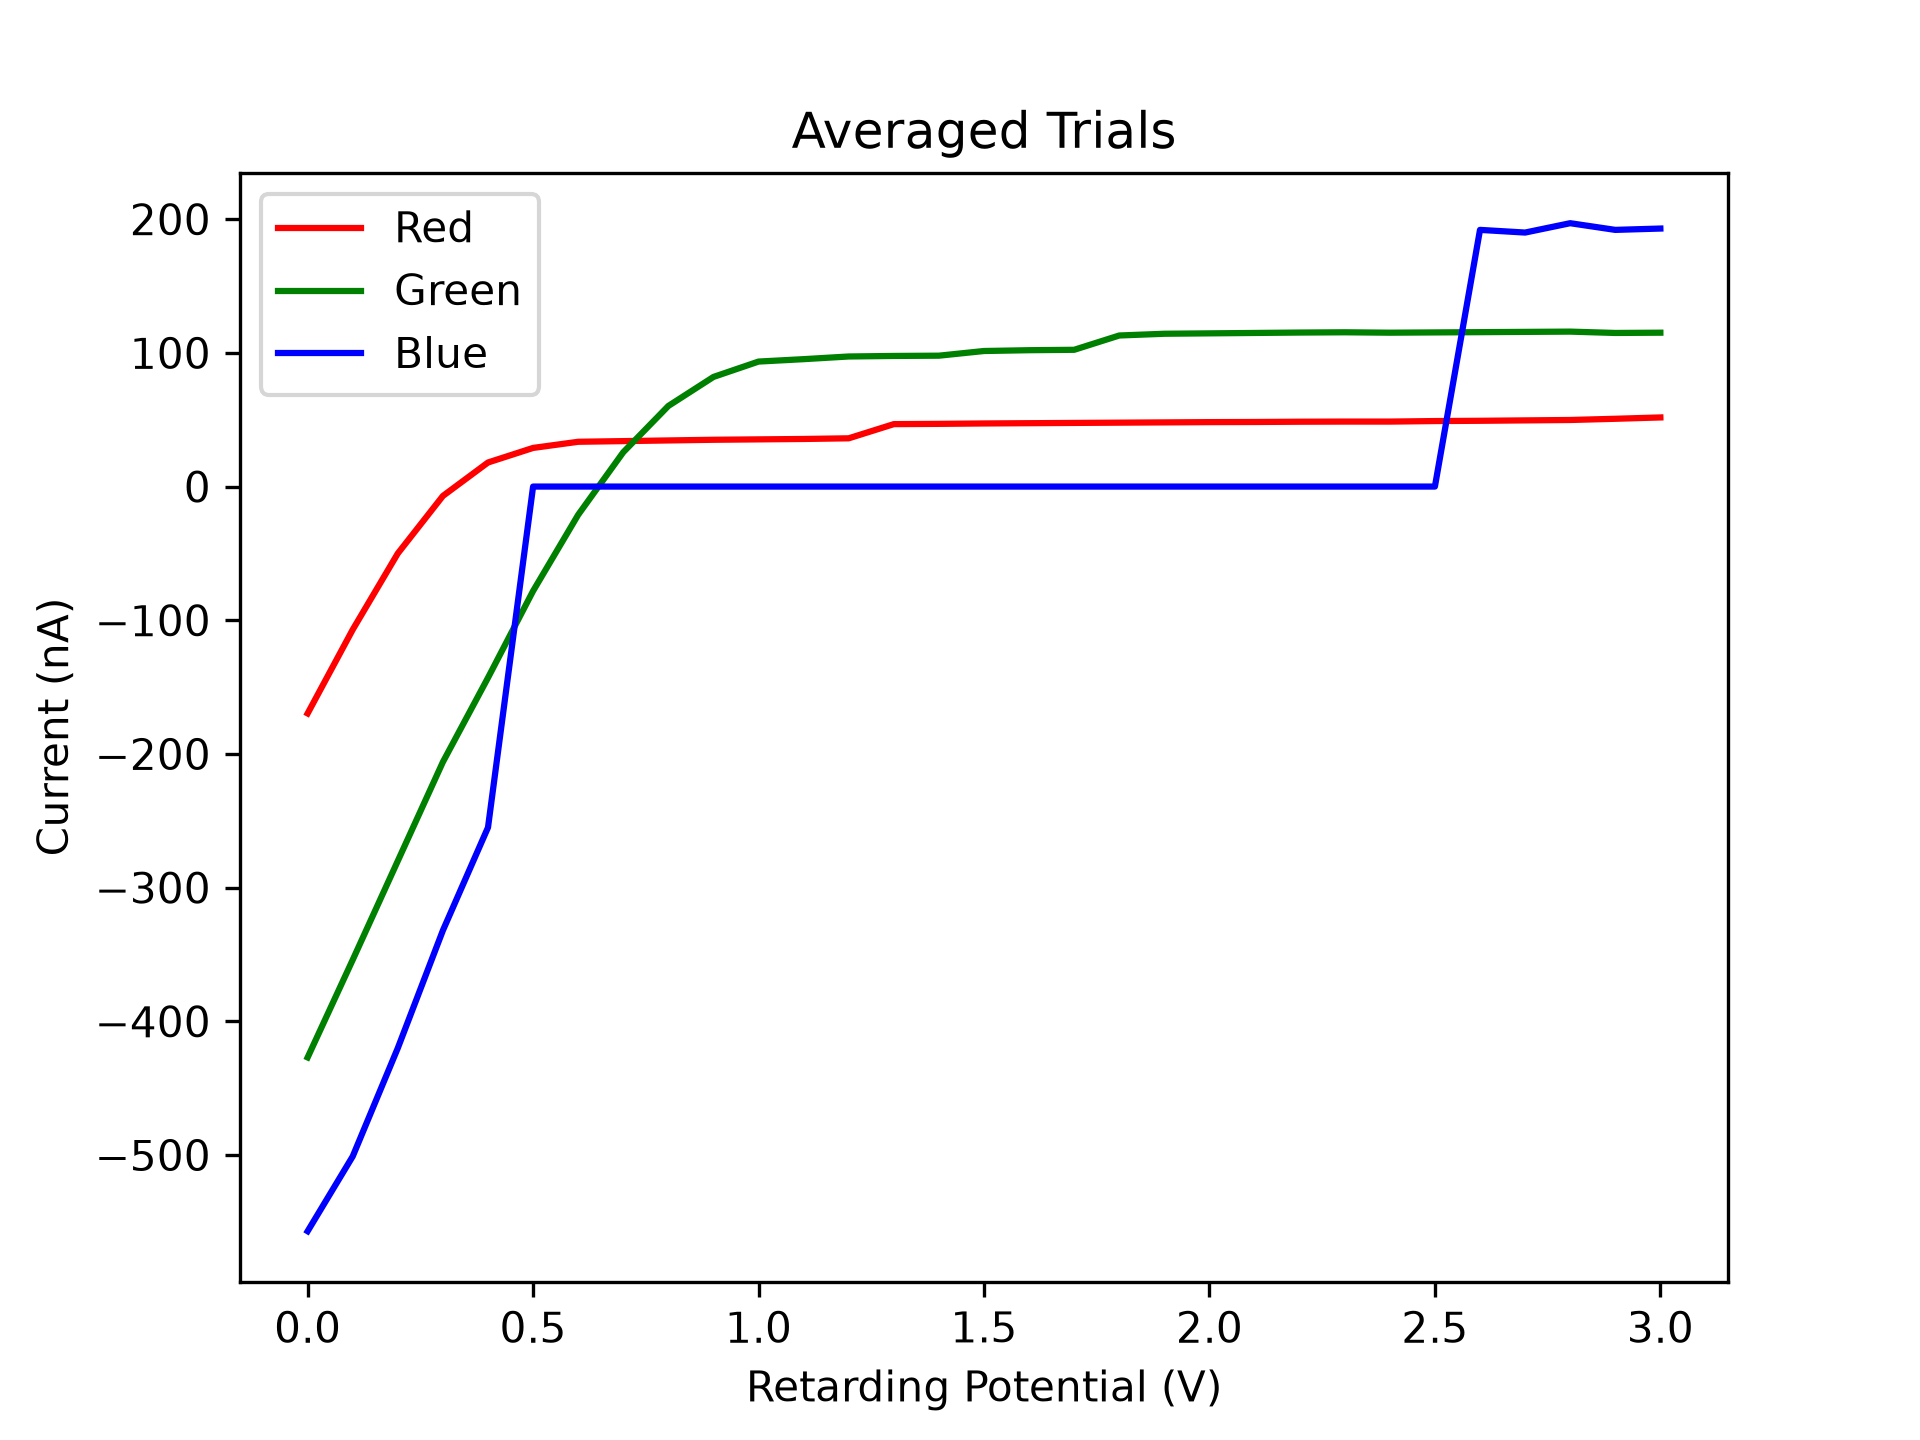
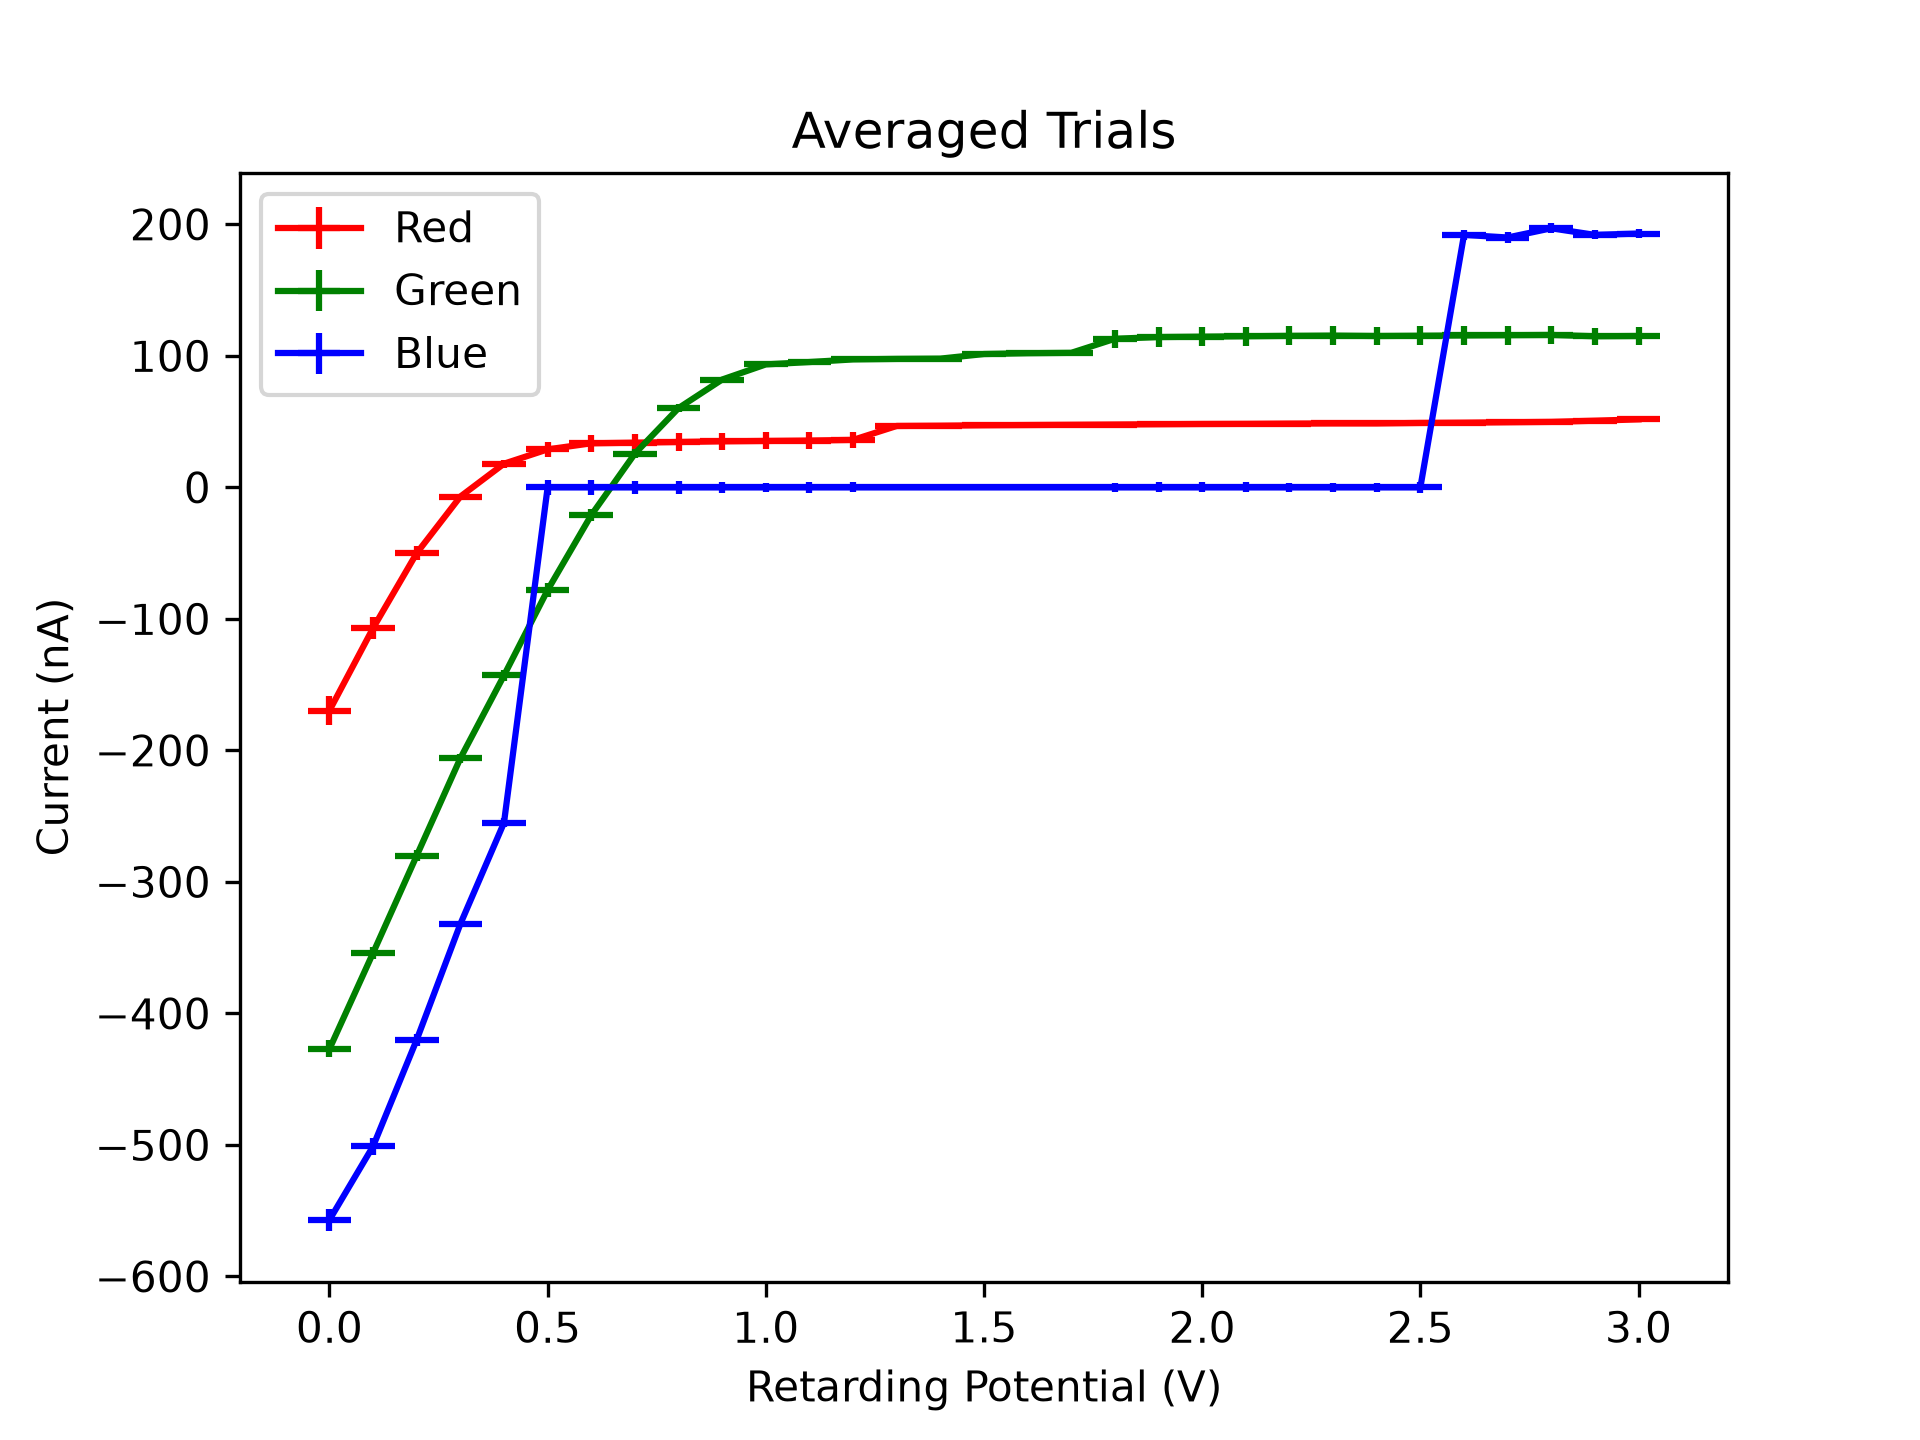
added error bars

diff --git a/rawdata.py b/rawdata.py
@@ -45,11 +45,11 @@ plt.savefig("rawdata.png")
 plt.close()
 
 plt.figure(dpi=300)
-plt.plot(ret,red2,label="Red",
+plt.errorbar(ret,red2,xerr=dd,yerr=dr,label="Red",
          color='red')
-plt.plot(ret,green2,label="Green",
+plt.errorbar(ret,green2,xerr=dd,yerr=dg,label="Green",
          color='green')
-plt.plot(ret,blue,label="Blue",
+plt.errorbar(ret,blue,xerr=dd,yerr=db,label="Blue",
          color='blue')
 plt.xlabel("Retarding Potential (V)")
 plt.ylabel("Current (nA)")
